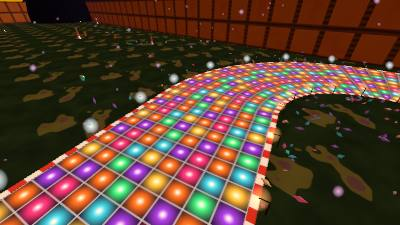
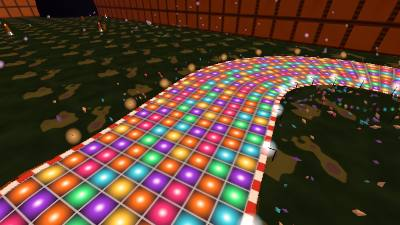
12 Bar Bruise Cup: more bends and hills on Muckraker, Cut Throat Boogie and Sea of Trees
Their long straights get curves and climbs, each from its song.
Muckraker: an S over two dunes on the Handle, the rake's drag an S
through the Muck Pit, the Coogoorah Boardwalk zigzagging over the
wetland, and the River Leap over the Anglesea River. Cut Throat Boogie:
the Shuffle, two dance steps out and back on Boogie Straight, and the
Jugular Bend, an S through Inches, the top of the handle lifted clear of
its underside and stitched step by step. Sea of Trees: the Forest Path's
esses between the trunks, Underwater swaying round the roots, the Tape
Hiss wavering home, the Root Gully leap, and the roots heaving the run
home into two humps and a crest.

Muckraker's two kickers sit closer together, the boogie's pool is
narrower (it reached the sunk Inches above it), and the preview shots
are retaken.

Claude-Session: https://claude.ai/code/session_01MwKJbfE6sfLuUzU5RBUasY

diff --git a/src/tracks/muckraker.ts b/src/tracks/muckraker.ts
@@ -2,7 +2,7 @@ import { TrackBuilder, offsetPose, type Pose } from './builder';
 import type { BranchDef, TrackDef } from './track';
 
 const K = 1.1;
-const START: Pose = { x: -150 * K, z: -120 * K, h: Math.PI / 2 };
+const START: Pose = { x: -92 * K, z: -120 * K, h: Math.PI / 2 };
 const FINISH = 45;
 /** The rake's head: three tines the road runs out and back along, a hairpin of this radius at each tip, this long. */
 const TINE_R = 15;
@@ -16,6 +16,8 @@ const WALL = 6;
 /** The Power Station Climb: a full turn round the chimney, and the top of it. */
 const CLIMB_R = 30;
 const CLIMB_TOP = 14;
+/** How high the dunes on the Handle rise. */
+const DUNE = 4;
 
 /**
  * Muckraker (the 12 Bar Bruise Cup's second), after the album's second
@@ -25,11 +27,14 @@ const CLIMB_TOP = 14;
  * Reserve's wetlands and golfing by the old power station, so the world is
  * Anglesea in the rain on tape: wetlands, reeds and boardwalks, a golf
  * course gone to mud, the power station's chimney over it all. The lap is
- * a rake: from Cobweb Straight (two kickers) down the Handle, then through
+ * a rake: from Cobweb Straight (two kickers) down the Handle, an S over two
+ * dunes, then through
  * its head, out and back along three tines, hairpin after hairpin, raking
  * the muck. Into the Muck Pit, sunk 6 m between walls of mud, a rake
- * dragging one clean furrow through four lanes of muck; across the
- * Coogoorah Boardwalk over the wetland, no rails; the Ant Trail, narrow;
+ * dragging one clean furrow through four lanes of muck, the road an S
+ * between the banks; zigzagging across the Coogoorah Boardwalk over the
+ * wetland, no rails; the River Leap over the Anglesea River; the Ant Trail,
+ * narrow;
  * then the Fairway swinging out round a pond, which the Water Hazard jumps
  * straight across from lap 2; a full turn up round the chimney and over the
  * road below, and the Tempo Change, the song speeding up and slowing down,
@@ -38,11 +43,16 @@ const CLIMB_TOP = 14;
 export function buildMuckraker(): TrackDef {
   const b = new TrackBuilder(START, 'Cobweb Straight', { halfWidth: 11, surface: 'muck' });
   b.scale = K;
-  b.straight(40).mark('kick1').kicker().straight(34).mark('kick2').kicker().straight(40);
+  b.straight(34).mark('kick1').kicker().straight(26).mark('kick2').kicker().straight(40);
 
   b.section('The Handle', { halfWidth: 10, surface: 'muck' });
   b.mark('handle');
-  b.straight(110);
+  b.straight(30);
+  // Over the dunes behind the beach: an S, rising and falling.
+  b.mark('dunes');
+  b.arc(30, 30).arc(30, -60).arc(30, 30);
+  b.mark('dunesEnd');
+  b.straight(10);
 
   // The rake's head: out along each tine and back, a hairpin at every tip.
   b.section('The Tines', { halfWidth: 9, wallHeight: 1.2, surface: 'muck' });
@@ -69,14 +79,24 @@ export function buildMuckraker(): TrackDef {
 
   b.section('Muck Pit', { halfWidth: 9, wallHeight: WALL, surface: 'muck' });
   b.mark('pit');
-  b.straight(140);
+  // The rake's drag through the muck: an S between the banks.
+  b.straight(20).arc(70, 25).arc(70, -50).arc(70, 25);
   b.mark('pitEnd');
   b.straight(10);
 
   b.section('Coogoorah Boardwalk', { halfWidth: 9, surface: 'boards', bridge: true });
   b.mark('boardwalk');
-  b.straight(90);
+  // Zigzagging over the wetland, as Coogoorah's boardwalks do.
+  b.arc(22, 40).arc(22, -80).arc(22, 80).arc(22, -40);
   b.mark('boardwalkEnd');
+
+  // Over the Anglesea River where it runs out of the wetland.
+  b.section('River Leap', { halfWidth: 9, wallHeight: 1.2, surface: 'boards' });
+  b.mark('river');
+  b.straight(15).mark('ramp').elevate(0).rise(18, 3);
+  b.gap(12, 20, 'water');
+  b.elevate(0).straight(15);
+  b.mark('landed');
 
   b.section('Ant Trail', { halfWidth: 8, wallHeight: 1.2, surface: 'muck' });
   b.mark('ants');
@@ -100,6 +120,8 @@ export function buildMuckraker(): TrackDef {
   b.straight(FINISH);
 
   const m = (name: string, d = 0) => b.marks[name].s + d * K;
+  // Two dunes over the S on the Handle.
+  b.profile(m('dunes'), m('dunesEnd'), (u) => DUNE * Math.sin(Math.PI * 2 * u) ** 2);
   ease(b, m('pit', 100), -DEPTH, m('pitEnd', 10), 0);
   b.profile(m('climb'), m('climbTop'), (u) => CLIMB_TOP * u);
   b.profile(m('climbTop'), m('pit'), () => CLIMB_TOP, 10);
@@ -128,7 +150,7 @@ export function buildMuckraker(): TrackDef {
       { kind: 'powerStation', ribbon: -1, s: at('pit', 20), lateral: 130 },
     ],
     itemBoxes: [
-      { s: 75, count: 4 },
+      { s: 62, count: 4 },
       { s: at('drop', 20), count: 4 },
       { s: at('tinesEnd', 0), count: 3 },
       { s: at('boardwalk', 80), count: 3 },

diff --git a/src/tracks/cutThroatBoogie.ts b/src/tracks/cutThroatBoogie.ts
@@ -1,8 +1,8 @@
 import { TrackBuilder, offsetPose, type Pose } from './builder';
 import type { BranchDef, TrackDef } from './track';
 
-const K = 1.2;
-const START: Pose = { x: -262 * K, z: -40 * K, h: Math.PI / 2 };
+const K = 1.16;
+const START: Pose = { x: -258 * K, z: -40 * K, h: Math.PI / 2 };
 const FINISH = 45;
 /** Dual Mono: the right channel swings out round the speaker stacks in three arcs of this radius and turn; the left runs straight. */
 const MONO_R = 40;
@@ -25,26 +25,35 @@ const CREST = 9;
  * party, all night: a seventies boogie in a backyard, a lit dance floor for
  * a road, mirror balls, lava lamps and fairy lights, harmonica on the
  * gates. The lap is an open cut-throat razor: down Boogie Straight (two
- * kickers) along the handle, and Set Sail ("buckle me in"), a leap over
- * the pool, round the Pivot where the blade folds, and back along the
- * blade's spine through Dual Mono, where the road splits in two, the right
- * channel swinging out round speaker stacks and the left channel straight
- * through, narrow and unrailed. Then Inches, sunk 6 m between walls of
- * speakers, cut-throat razors swinging across the road (a close shave is a
- * boost); the Stitch-Up, zigzag after zigzag; and the Blade Edge, one long
- * curve round the tip and home.
+ * kickers) along the underside of the handle and the Shuffle, two dance
+ * steps out and back, then Set Sail ("buckle me in"), a leap over the pool
+ * at the pivot; the Blade Edge swelling up its belly and dropping off to the
+ * Tip, and back along the blade's spine through Dual Mono, where the road
+ * splits in two, the right channel swinging out round speaker stacks and
+ * the left channel straight through, narrow and unrailed. Then Inches, sunk
+ * 6 m between walls of speakers, the Jugular Bend an S through it,
+ * cut-throat razors swinging across the road (a close shave is a boost);
+ * the Stitch-Up, stitch after stitch along the top of the handle, and round
+ * the Handle End home.
  */
 export function buildCutThroatBoogie(): TrackDef {
   const b = new TrackBuilder(START, 'Boogie Straight', { halfWidth: 11, surface: 'dancefloor' });
   b.scale = K;
   // Along the underside of the handle.
-  b.straight(40).mark('kick1').kicker().straight(34).mark('kick2').kicker().straight(110);
+  b.straight(40).mark('kick1').kicker().straight(34).mark('kick2').kicker().straight(30);
+  // The Shuffle: dance steps across the floor, left and right and back.
+  b.section('The Shuffle', { halfWidth: 10, wallHeight: 1.2, surface: 'dancefloor' });
+  b.mark('shuffle');
+  // Two steps out and back, away from the top of the handle.
+  for (let k = 0; k < 2; k++) b.arc(24, 40).arc(24, -80).arc(24, 40);
+  b.section('Off the Floor', { halfWidth: 10.5, surface: 'dancefloor' });
+  b.straight(10);
 
   // Set Sail: over the pool, at the pivot.
   b.section('Set Sail', { halfWidth: 9, wallHeight: 1.2, surface: 'dancefloor' });
   b.mark('sail');
   b.straight(20).mark('ramp').elevate(0).rise(18, 3);
-  b.gap(13, 30, 'water');
+  b.gap(13, 20, 'water');
   b.elevate(0).straight(25);
   b.mark('landed');
 
@@ -68,16 +77,17 @@ export function buildCutThroatBoogie(): TrackDef {
   // Inches: the narrow back of the pivot, sunk between walls of speakers.
   b.section('Inches', { halfWidth: 9, wallHeight: WALL, surface: 'dancefloor' });
   b.mark('inches');
-  b.arc(80, 20).straight(60).arc(80, -20).straight(40);
+  // The Jugular Bend: an S between the speakers, the razors swinging across it.
+  b.straight(10).arc(45, 40).arc(45, -80).arc(45, 40).arc(50, 30).straight(10).arc(50, -30);
   b.mark('inchesEnd');
   b.straight(10);
 
   // Along the top of the handle, stitched.
   b.section('The Stitch-Up', { halfWidth: 10, wallHeight: 1.2, surface: 'dancefloor' });
   b.mark('stitch');
-  b.arc(STITCH_R, -STITCH_TURN / 2);
-  for (let k = 0; k < 4; k++) b.arc(STITCH_R, k % 2 ? -STITCH_TURN : STITCH_TURN);
-  b.arc(STITCH_R, STITCH_TURN / 2);
+  // Stitch after stitch along the top of the handle, each one out and back.
+  b.straight(20);
+  for (let k = 0; k < 2; k++) b.arc(STITCH_R, STITCH_TURN / 2).arc(STITCH_R, -STITCH_TURN).arc(STITCH_R, STITCH_TURN / 2);
   b.section('Handle End', { halfWidth: 10.5, surface: 'dancefloor' });
   b.mark('handle');
   b.straight(40);

diff --git a/src/tracks/seaOfTrees.ts b/src/tracks/seaOfTrees.ts
@@ -14,6 +14,8 @@ const WALL = 6;
 /** The Jam swings out round a hollow in three arcs of this radius and turn. */
 const JAM_R = 38;
 const JAM_TURN = 70;
+/** How high the roots heave the road on the way home. */
+const ROOTS = 5;
 
 /**
  * Sea of Trees (the 12 Bar Bruise Cup's finale), after the album's
@@ -22,19 +24,27 @@ const JAM_TURN = 70;
  * growing out of old lava, moss over everything and caves under it. The
  * song feels underwater, its head sinking like a stone; it was first
  * called "Jam", and it ends suddenly because the band ran out of tape. The
- * lap: down the Tree Line (two kickers) and up onto the Canopy, the road
+ * lap: down the Tree Line (two kickers) and the Forest Path's esses between
+ * the trunks, and up onto the Canopy, the road
  * laid over the treetops, rolling over six swells like a sea; Unfold, a
  * bend that opens out as it goes; then Sinking Like a Stone, a plunge down
  * through the leaves, and Underwater, sunk 8 m in the green dark between
- * walls of lava rock, trees toppling across the road. Up the Lava Tube,
- * round the Jam, swinging out round a hollow (the Rope Bridge strings
- * straight across it, no rails, on the final lap only), and Out of Tape,
- * home. Trees come down on the Canopy too.
+ * walls of lava rock, swaying round the roots, trees toppling across the
+ * road. Up the Lava Tube, round the Jam, swinging out round a hollow (the
+ * Rope Bridge strings straight across it, no rails, on the final lap only),
+ * the Tape Hiss wavering like a tape running slow, the Root Gully leap, and
+ * Out of Tape, home over the roots. Trees come down on the Canopy too.
  */
 export function buildSeaOfTrees(): TrackDef {
   const b = new TrackBuilder(START, 'The Tree Line', { halfWidth: 11, surface: 'moss' });
   b.scale = K;
-  b.straight(40).mark('kick1').kicker().straight(34).mark('kick2').kicker().straight(130);
+  b.straight(40).mark('kick1').kicker().straight(34).mark('kick2').kicker().straight(40);
+  // The Forest Path: esses between the trunks.
+  b.section('Forest Path', { halfWidth: 9.5, wallHeight: 1.2, surface: 'moss' });
+  b.mark('path');
+  b.arc(32, 40).arc(32, -80).arc(32, 80).arc(32, -40);
+  b.section('Edge of the Trees', { halfWidth: 10.5, surface: 'moss' });
+  b.straight(10);
   b.arc(50, -90);
 
   // Up on the treetops, rolling over the swells.
@@ -56,7 +66,8 @@ export function buildSeaOfTrees(): TrackDef {
   b.straight(70);
   b.section('Underwater', { halfWidth: 9, wallHeight: WALL, surface: 'moss' });
   b.mark('under');
-  b.straight(230);
+  // Swaying round the roots in the green dark.
+  b.straight(30).arc(60, 35).arc(60, -70).arc(60, 35).straight(40);
   b.mark('underEnd');
   b.section('Lava Tube', { halfWidth: 9.5, wallHeight: WALL, surface: 'moss' });
   b.mark('tube');
@@ -70,7 +81,20 @@ export function buildSeaOfTrees(): TrackDef {
   b.mark('bridgeFrom');
   b.arc(JAM_R, JAM_TURN).arc(JAM_R, -2 * JAM_TURN).arc(JAM_R, JAM_TURN);
   b.mark('bridgeTo');
-  b.straight(40);
+  b.straight(15);
+  // Tape Hiss: the road wavering like a tape running slow.
+  b.section('Tape Hiss', { halfWidth: 10, surface: 'moss' });
+  b.mark('hiss');
+  b.arc(40, 30).arc(40, -60).arc(40, 60).arc(40, -30);
+  b.mark('hissEnd');
+
+  // The Root Gully: a leap over a cleft in the old lava, roots hanging into it.
+  b.section('Root Gully', { halfWidth: 9, wallHeight: 1.2, surface: 'moss' });
+  b.mark('gully');
+  b.straight(15).mark('ramp').elevate(0).rise(18, 3);
+  b.gap(12, 20);
+  b.elevate(0).straight(15);
+  b.mark('gullyEnd');
 
   b.section('Out of Tape', { halfWidth: 11, surface: 'moss' });
   b.mark('tape');
@@ -89,6 +113,9 @@ export function buildSeaOfTrees(): TrackDef {
   plunge(b, m('sink'), CANOPY, m('under', 30), -DEPTH);
   b.profile(m('under', 30), m('underEnd'), () => -DEPTH, 10);
   ease(b, m('underEnd'), -DEPTH, m('tubeEnd', 20), 0);
+
+  // Out of Tape rolls over the roots, two humps and a crest to fly off.
+  b.profile(m('gullyEnd', 20), m('finish', -30), (u) => ROOTS * Math.sin(Math.PI * 2 * u) ** 2);
 
   const main = b.finish(true);
   const rope = buildRopeBridge(b.marks.bridgeFrom, b.marks.bridgeTo);

diff --git a/tests/tracks-12-bar-bruise.test.ts b/tests/tracks-12-bar-bruise.test.ts
@@ -90,13 +90,13 @@ describe('12 Bar Bruise Cup', () => {
     const elbow = buildElbow();
     for (const n of ['Big Shot Straight', 'The Bended Elbow', 'The Forearm', 'The Fist', 'Backstab Alley', 'Hey Hey Esses', 'The Flange']) expect(section(elbow, n), n).toBeTruthy();
     const muck = buildMuckraker();
-    for (const n of ['Cobweb Straight', 'The Handle', 'The Tines', 'Power Station Climb', 'Muck Pit', 'Coogoorah Boardwalk', 'Ant Trail', 'The Fairway']) expect(section(muck, n), n).toBeTruthy();
+    for (const n of ['Cobweb Straight', 'The Handle', 'The Tines', 'Power Station Climb', 'Muck Pit', 'Coogoorah Boardwalk', 'River Leap', 'Ant Trail', 'The Fairway']) expect(section(muck, n), n).toBeTruthy();
     const boogie = buildCutThroatBoogie();
-    for (const n of ['Boogie Straight', 'Set Sail', 'The Blade Edge', 'The Tip', 'Dual Mono', 'Inches', 'The Stitch-Up']) expect(section(boogie, n), n).toBeTruthy();
+    for (const n of ['Boogie Straight', 'The Shuffle', 'Set Sail', 'The Blade Edge', 'The Tip', 'Dual Mono', 'Inches', 'The Stitch-Up']) expect(section(boogie, n), n).toBeTruthy();
     // Dual Mono: a left channel there every lap, as well as the right.
     expect(boogie.branches.find((b) => b.name === 'Left Channel')!.openOn).toBeUndefined();
     const trees = buildSeaOfTrees();
-    for (const n of ['The Tree Line', 'The Canopy', 'Unfold', 'Sinking Like a Stone', 'Underwater', 'Lava Tube', 'The Jam', 'Out of Tape']) expect(section(trees, n), n).toBeTruthy();
+    for (const n of ['The Tree Line', 'Forest Path', 'The Canopy', 'Unfold', 'Sinking Like a Stone', 'Underwater', 'Lava Tube', 'The Jam', 'Tape Hiss', 'Root Gully', 'Out of Tape']) expect(section(trees, n), n).toBeTruthy();
     // The canopy rolls: it rises and falls over its swells, up on the treetops.
     const track = new Track(trees);
     const canopy = section(trees, 'The Canopy')!;

diff --git a/SPEC.md b/SPEC.md
@@ -253,9 +253,9 @@ New hazards, each with a way to use it: smog (a bank of it gathers at one edge a
 After the band's first album (2012), raw garage rock recorded on the cheap: four of its songs in album order, each the band plays live, and each track laid out after its song, its world, its lap's shape, its section names and its hazard all taken from the song, a lap and final-lap remix of it, and live recordings of it for Track song. Race order: Elbow, Muckraker, Cut Throat Boogie, Sea of Trees.
 
 1. Elbow (Elbow): the noisy punk song the album opens with, about a big shot who betrays you, who knows better than to bend your elbow back, and stabs you in the back, the band chanting "EY" through the choruses and a huge flange at the end. A pub's band room on a Saturday night spilled out into the street, the Bended Elbow (the Geelong pub the song may have been about) lit up over it, neon pooling on wet bitumen, on a road of band room carpet. The lap is an arm: Big Shot Straight (two kickers) from the shoulder under the Bended Elbow's sign, a bent arm flexing on top of it; the Bended Elbow, a hairpin bent right back; the Forearm, swelling up and dropping away to the Fist, four knuckles of kinks; the Wrist Turn round under the arm into Backstab Alley, sunk 6 m between brick walls of gig posters, arms reaching out of the walls to throw elbows across half the road (elbowed and shoved across, or past it on the other half for a boost); the Hey Hey Esses, eight bends, one an "EY"; and the Flange, swinging out and back like the effect. Shortcut: the Backstab, straight across behind the Flange over the band room's cellar, its doors flung open, on the final lap only. A giant arm in a studded leather sleeve stands in the infield, bending its elbow right back and straightening again. Scenery: amp stacks, kegs, pub fronts with neon in the windows, street lamps, punks with mohawks pogoing on the beat
-2. Muckraker (Muckraker): a shit kicker's song, the cobwebs cleared off his brain, the ants come and the rain on the way, raking the muck, just his luck; its video was shot on VHS at Anglesea, the band at Coogoorah Reserve and golfing by the old power station. Anglesea in the rain on tape, wetlands, reeds and boardwalks, a golf course gone to mud, on a road of raked muck. The lap is a rake: Cobweb Straight (two kickers) under a gate of rakes hung with cobwebs and down the Handle, then the Tines, out and back along three tines, hairpin after hairpin, a rake dragging through them; the Power Station Climb, a full turn round the chimney to 14 m and over the road below, and the Chimney Drop into the Muck Pit, sunk 6 m between banks of mud, four lanes of muck across the road and a rake dragging one of them clean (a boost down the furrow; bogged down and slowed in the rest); the Coogoorah Boardwalk over the wetland, no rails; the Ant Trail, narrow; the Fairway round a pond and the Eighteenth Hole home. Shortcut: the Water Hazard, a jump off a tee straight across the pond, from lap 2. The power station stands off the road, smoke drifting off its chimney. Scenery: reeds, rakes stuck in the mud, ants as big as dogs marching in a ring, golf flags, white-trunked gums
-3. Cut Throat Boogie (Cut Throat Boogie): the band's first boogie and the first song Ambrose sang, about a house party gone wrong (a play fight and a broken bottle an inch from his jugular), mixed in dual mono with harmonica overdubs. That party, all night, a seventies boogie in a backyard, on a road of lit dance floor squares. The lap is an open cut-throat razor: Boogie Straight (two kickers) along the underside of the handle under a giant harmonica on two speaker stacks, its holes lighting along it; Set Sail ("buckle me in before we set sail"), a leap over the pool at the pivot; the Blade Edge swelling up its belly and dropping off toward the Tip; back along the spine through Dual Mono, where the road splits in two, the right channel swinging out round the speaker stacks and the Left Channel straight through, narrow and unrailed, on every lap; Inches, sunk 6 m between walls of seventies speakers, cut-throat razors swinging across the road on rods from gantries (touched, they cut you and spin you; a close shave past one at speed is a boost); the Stitch-Up, zigzags along the top of the handle, and round the Handle End home. A mirror ball the size of a house hangs off a crane over the party, throwing spots of light. Scenery: lava lamps, mirror balls on poles, fairy lights, speaker cabinets thumping, balloons
-4. Sea of Trees (Sea of Trees): the cup's finale, after the album's penultimate song, the name the band nearly went by, a forest so wide and even it's called a sea; the song feels underwater, its head sinking like a stone, it was first called "Jam", and it ends suddenly because the band ran out of tape. A sea of trees grown over old lava at the foot of a snow-capped mountain, moss on everything, on a road of moss over lava rock. The Tree Line (two kickers) under two great trunks with a fallen one across their tops; the Canopy, laid on the treetops, rolling over six swells; Unfold, a bend that opens out as it goes; Sinking Like a Stone, a plunge down through the leaves into Underwater, sunk 8 m in the green dark between walls of lava rock, and up the Lava Tube, trees leaning out and toppling right across the road (hop the trunk or ram it on a boost for a bonus; drive into it and you spin); the Jam, swinging out round a hollow, and Out of Tape, home. Shortcut: the Rope Bridge, planks strung straight across the hollow, no rails, on the final lap only. The snow-capped mountain stands off the road, a cloud drifting round its summit. Scenery: broadleaf trees and conifers tall enough to drive on top of, mossy lava boulders, ferns
+2. Muckraker (Muckraker): a shit kicker's song, the cobwebs cleared off his brain, the ants come and the rain on the way, raking the muck, just his luck; its video was shot on VHS at Anglesea, the band at Coogoorah Reserve and golfing by the old power station. Anglesea in the rain on tape, wetlands, reeds and boardwalks, a golf course gone to mud, on a road of raked muck. The lap is a rake: Cobweb Straight (two kickers) under a gate of rakes hung with cobwebs and down the Handle, an S over two dunes, then the Tines, out and back along three tines, hairpin after hairpin, a rake dragging through them; the Power Station Climb, a full turn round the chimney to 14 m and over the road below, and the Chimney Drop into the Muck Pit, sunk 6 m between banks of mud, an S between them, four lanes of muck across the road and a rake dragging one of them clean (a boost down the furrow; bogged down and slowed in the rest); the Coogoorah Boardwalk zigzagging over the wetland, no rails; the River Leap over the Anglesea River; the Ant Trail, narrow; the Fairway round a pond and the Eighteenth Hole home. Shortcut: the Water Hazard, a jump off a tee straight across the pond, from lap 2. The power station stands off the road, smoke drifting off its chimney. Scenery: reeds, rakes stuck in the mud, ants as big as dogs marching in a ring, golf flags, white-trunked gums
+3. Cut Throat Boogie (Cut Throat Boogie): the band's first boogie and the first song Ambrose sang, about a house party gone wrong (a play fight and a broken bottle an inch from his jugular), mixed in dual mono with harmonica overdubs. That party, all night, a seventies boogie in a backyard, on a road of lit dance floor squares. The lap is an open cut-throat razor: Boogie Straight (two kickers) along the underside of the handle under a giant harmonica on two speaker stacks, its holes lighting along it, and the Shuffle, two dance steps out and back; Set Sail ("buckle me in before we set sail"), a leap over the pool at the pivot; the Blade Edge swelling up its belly and dropping off toward the Tip; back along the spine through Dual Mono, where the road splits in two, the right channel swinging out round the speaker stacks and the Left Channel straight through, narrow and unrailed, on every lap; Inches, sunk 6 m between walls of seventies speakers, the Jugular Bend an S through it, cut-throat razors swinging across the road on rods from gantries (touched, they cut you and spin you; a close shave past one at speed is a boost); the Stitch-Up, stitch after stitch along the top of the handle, and round the Handle End home. A mirror ball the size of a house hangs off a crane over the party, throwing spots of light. Scenery: lava lamps, mirror balls on poles, fairy lights, speaker cabinets thumping, balloons
+4. Sea of Trees (Sea of Trees): the cup's finale, after the album's penultimate song, the name the band nearly went by, a forest so wide and even it's called a sea; the song feels underwater, its head sinking like a stone, it was first called "Jam", and it ends suddenly because the band ran out of tape. A sea of trees grown over old lava at the foot of a snow-capped mountain, moss on everything, on a road of moss over lava rock. The Tree Line (two kickers) under two great trunks with a fallen one across their tops, and the Forest Path's esses between the trunks; the Canopy, laid on the treetops, rolling over six swells; Unfold, a bend that opens out as it goes; Sinking Like a Stone, a plunge down through the leaves into Underwater, sunk 8 m in the green dark between walls of lava rock, swaying round the roots, and up the Lava Tube, trees leaning out and toppling right across the road (hop the trunk or ram it on a boost for a bonus; drive into it and you spin); the Jam, swinging out round a hollow, the Tape Hiss wavering like a tape running slow, the Root Gully leap, and Out of Tape, home over the roots. Shortcut: the Rope Bridge, planks strung straight across the hollow, no rails, on the final lap only. The snow-capped mountain stands off the road, a cloud drifting round its summit. Scenery: broadleaf trees and conifers tall enough to drive on top of, mossy lava boulders, ferns
 
 ### The Mind Fuzz Cup
 
